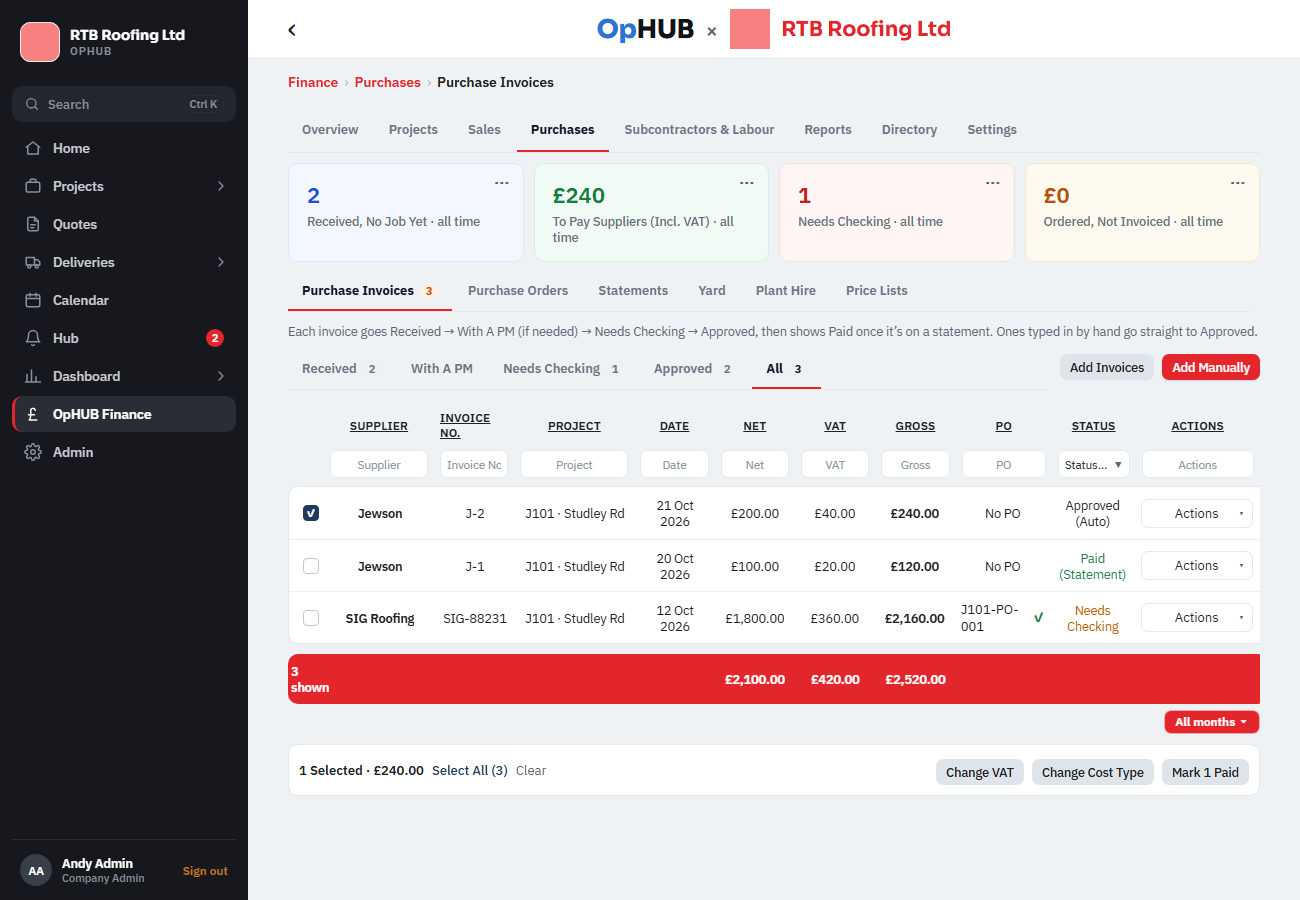
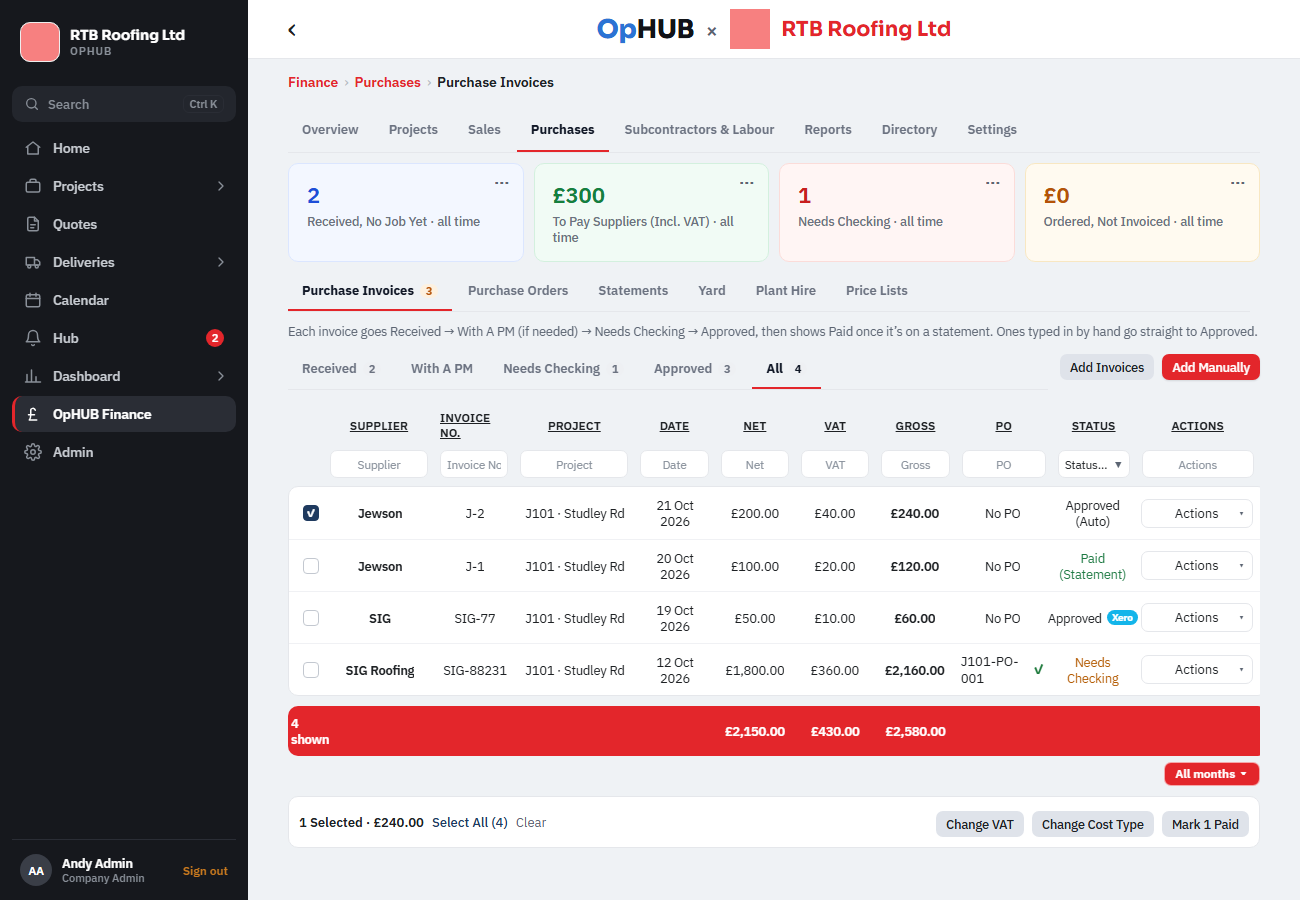
Purchase invoices, Approved (Andy, 6 Nov): a small Xero mark by the status once it's posted to Xero, instead of a Xero column. pinvlist-check shows one in Xero.
Claude-Session: https://claude.ai/code/session_012KhfNvBEbifMJmPdX7yZfp

diff --git a/tools/test-harness/pinvlist-check.js b/tools/test-harness/pinvlist-check.js
@@ -13,6 +13,7 @@ const check = (ok, what) => { console.log((ok ? 'PASS ' : 'FAIL ') + what); if (
   const O = db.organizations[0].id, S1 = '11111111-1111-1111-1111-111111111111';
   db.purchase_invoices.push({id: 'piA', org_id: O, site_id: S1, supplier_name: 'Jewson', invoice_no: 'J-1', invoice_date: '2026-10-20', net: 100, vat: 20, total: 120, status: 'approved', cost_code: 'materials'});
   db.purchase_invoices.push({id: 'piB', org_id: O, site_id: S1, supplier_name: 'Jewson', invoice_no: 'J-2', invoice_date: '2026-10-21', net: 200, vat: 40, total: 240, status: 'approved', auto_approved: true, cost_code: 'materials'});
+  db.purchase_invoices.push({id: 'piC', org_id: O, site_id: S1, supplier_name: 'SIG', invoice_no: 'SIG-77', invoice_date: '2026-10-19', net: 50, vat: 10, total: 60, status: 'approved', cost_code: 'materials', xero_id: 'XB-1'});
   db.fin_statements = db.fin_statements || [];
   db.fin_statements.push({id: 'st1', org_id: O, supplier_name: 'Jewson', statement_date: '2026-10-31', status: 'reconciled', lines: [{id: 'l1', ref: 'J-1', type: 'invoice', amount: 120, match: 'piA', how: 'auto'}]});
   const page = await ctx.newPage(); page.on('pageerror', (e) => errs.push(e.message));
@@ -28,7 +29,7 @@ const check = (ok, what) => { console.log((ok ? 'PASS ' : 'FAIL ') + what); if (
   check(await page.getByText(/^Select All/).count() === 0, 'no Select All before anything is ticked');
   await page.getByRole('tab', {name: /^Approved/}).click(); await page.waitForTimeout(800);
   check(await page.getByText('J-1', {exact: true}).count() === 1 && await page.getByText('J-2', {exact: true}).count() === 1 && await page.getByText(/^Paid/).count() >= 1, 'Approved has J-1 (status Paid, on its statement) and J-2');
-  check(await page.getByText('Xero', {exact: true}).count() >= 1 && await page.getByText(/^Not Posted/).count() >= 1, 'Approved shows a Xero column (Not Posted while on trial)');
+  check(await page.getByLabel('Posted to Xero').count() === 1 && await page.getByText('Xero', {exact: true}).count() === 1, 'the one in Xero has the small Xero mark by its status; no Xero column');
   await page.screenshot({path: 'shots/job/pinvlist-approved-1300.png'});
   await page.getByRole('checkbox').first().click(); await page.waitForTimeout(500);
   for (const b of ['Change VAT', 'Change Cost Type']) check(await page.getByText(b, {exact: true}).count() === 1, `bulk bar has ${b}`);

diff --git a/app-native/src/components/FinPurchases.tsx b/app-native/src/components/FinPurchases.tsx
@@ -438,8 +438,7 @@ export function PurchasesLists({ tab, siteId, f: f0 }: { tab: 'orders' | 'invoic
                     { k: 'v', l: 'VAT', min: 64, total: (l: Row[]) => money(l.reduce((t, i) => t + Number(i.vat || 0), 0)), render: (i: Row) => <Cell>{money(i.vat)}</Cell> },
                     { k: 't', l: 'Gross', min: 72, total: (l: Row[]) => money(l.reduce((t, i) => t + Number(i.total || 0), 0)), render: (i: Row) => <Cell bold>{money(i.total)}</Cell> },
                     ...(cur === 'unpaid' ? [] : [{ k: 'po', l: 'PO', min: 96, sort: (i: Row) => posBy[i.po_id]?.number || '', render: (i: Row) => poCell(i) }]),
-                    { k: 's', l: 'Status', min: 84, noSort: true, choices: ['Needs Checking', 'Query', 'Approved', 'Paid', 'Rejected'], render: (i: Row) => <Cell tone={piTone(i)}>{piWord(i)}</Cell> },
-                    ...(cur === 'unpaid' ? [{ k: 'x', l: 'Xero', min: 96, sort: (i: Row) => (i.xero_id ? 1 : 0), render: (i: Row) => <Cell tone={i.xero_id ? '#1E7A43' : base.slate}>{i.xero_id ? 'Posted' : finBlocked('xero', 'push_bill', me?.org_id) ? 'Not Posted (Trial)' : 'Not Posted'}</Cell> }] : []),
+                    { k: 's', l: 'Status', min: 84, noSort: true, choices: ['Needs Checking', 'Query', 'Approved', 'Paid', 'Rejected'], render: (i: Row) => <View style={{ flexDirection: 'row', alignItems: 'center', justifyContent: 'center', gap: 5 }}><Cell tone={piTone(i)}>{piWord(i)}</Cell>{!!i.xero_id && <Text accessibilityLabel="Posted to Xero" style={{ fontSize: 9.5, fontWeight: '700', color: '#fff', backgroundColor: '#13B5EA', borderRadius: 8, paddingHorizontal: 5, paddingVertical: 1, overflow: 'hidden' }}>Xero</Text>}</View> },
                     { k: 'a', l: 'Actions', min: 124, noSort: true, render: (i: Row) => <ActionsCell items={[
                                             ...(['to_approve', 'query', 'rejected'].includes(i.status) && me ? [{ key: 'ok', label: 'Approve', run: async () => { const r = await setPinvStatus(me, i.id, 'approved'); toast(r.ok ? 'Approved' : 'Couldn’t approve — try again.', { confirm: r.ok }); refresh(); } }] : []),
                       ...(i.status !== 'approved' && !isPaid(i) ? [{ key: 'pm', label: 'Send To PM', run: () => queryPm(i) }] : []),
